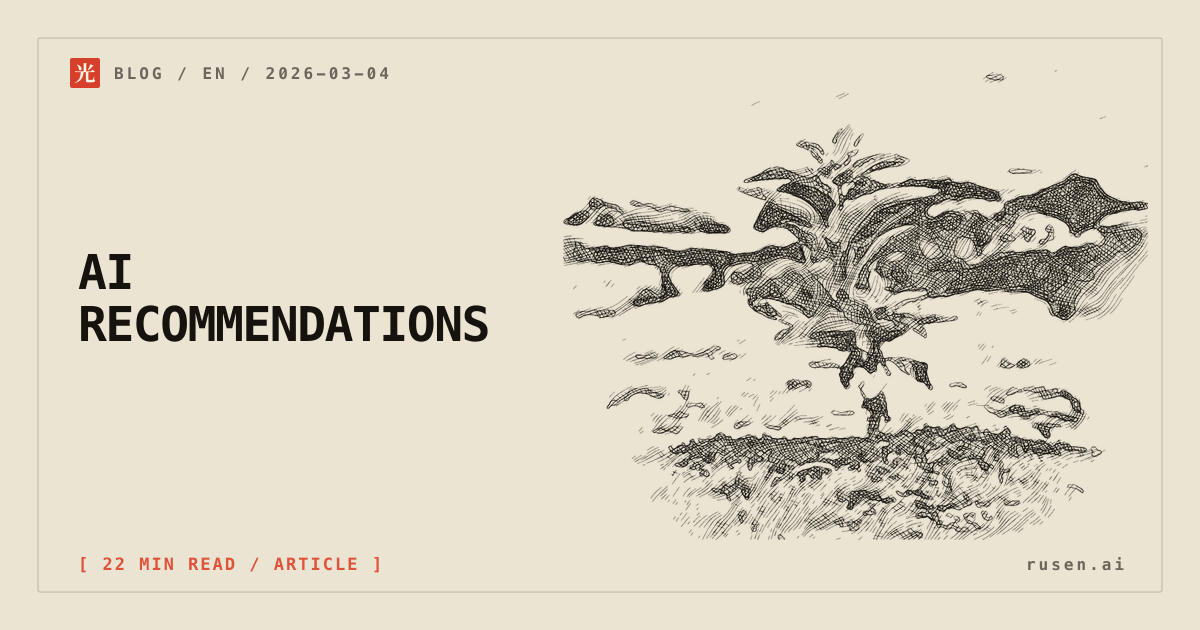
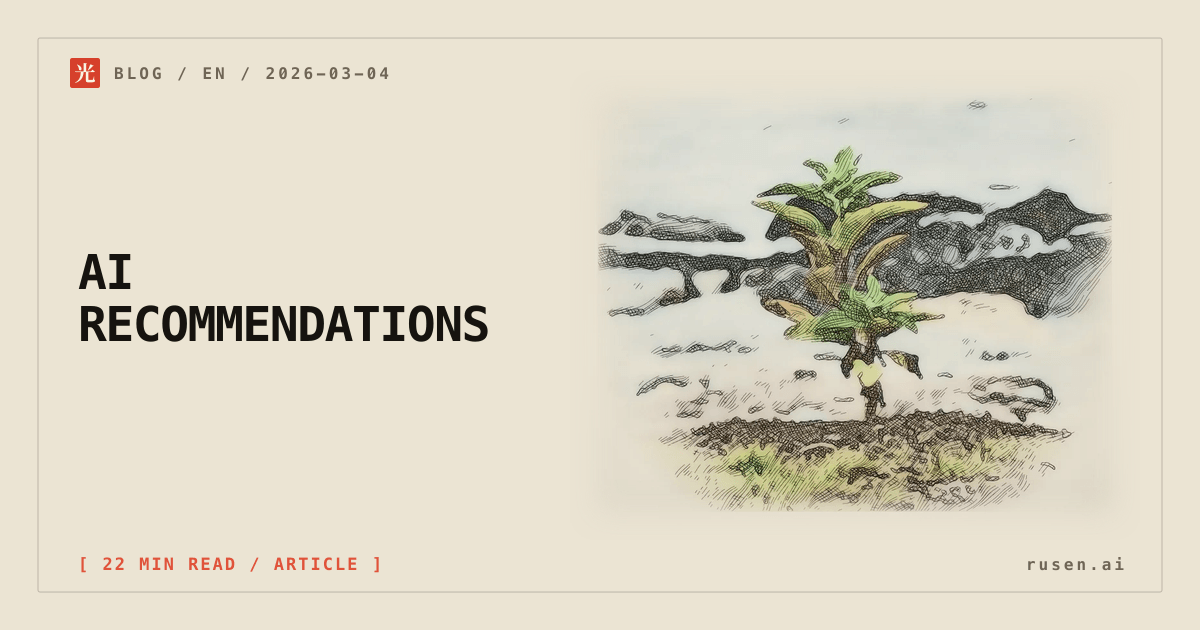
Color the blog covers with a watercolor wash
The ink covers now carry a pale wash of the photo's own colors under the
black lines, fading into the paper at the edges. The link preview card
keeps the drawing's colors and feathers its edges into the card paper.

Changed region(s): [[0.4625, 0.181, 0.9558, 0.8746], [0.74, 0.1508, 0.8325, 0.2413]]

diff --git a/scripts/social-build.ts b/scripts/social-build.ts
@@ -277,36 +277,44 @@ function renderCoverOverlaySvg(spec: CardSpec): Buffer {
   `);
 }
 
-/** The drawing's ink as an RGBA layer (paper made transparent), trimmed to the ink. */
-async function inkLayer(file: string): Promise<{ buffer: Buffer; width: number; height: number }> {
-  const { data, info } = await sharp(file).greyscale().raw().toBuffer({ resolveWithObject: true });
-  const sorted = Uint8Array.from(data).sort();
-  const paper = sorted[Math.floor(sorted.length * 0.6)];
-  const rgba = Buffer.alloc(info.width * info.height * 4);
+/** The drawing cut to its ink (plus a margin), with edges feathered into the card's paper. */
+async function drawingLayer(file: string): Promise<{ buffer: Buffer; width: number; height: number }> {
+  const { data, info } = await sharp(file).removeAlpha().raw().toBuffer({ resolveWithObject: true });
+  const n = info.width * info.height;
+  const luma = new Uint8Array(n);
+  for (let i = 0; i < n; i += 1) luma[i] = Math.round(0.299 * data[i * 3] + 0.587 * data[i * 3 + 1] + 0.114 * data[i * 3 + 2]);
+  const paper = Uint8Array.from(luma).sort()[Math.floor(n * 0.6)];
   let x0 = info.width, y0 = info.height, x1 = 0, y1 = 0;
-  for (let i = 0; i < info.width * info.height; i += 1) {
-    const alpha = Math.max(0, Math.min(255, Math.round(((paper - 12 - data[i]) * 255) / Math.max(1, paper - 60))));
-    rgba[i * 4] = 0x16; rgba[i * 4 + 1] = 0x13; rgba[i * 4 + 2] = 0x0f; rgba[i * 4 + 3] = alpha;
-    if (alpha > 60) {
+  for (let i = 0; i < n; i += 1) {
+    if (luma[i] < paper - 40) {
       const x = i % info.width, y = Math.floor(i / info.width);
       if (x < x0) x0 = x; if (x > x1) x1 = x; if (y < y0) y0 = y; if (y > y1) y1 = y;
     }
   }
-  const buffer = await sharp(rgba, { raw: { width: info.width, height: info.height, channels: 4 } })
-    .extract({ left: x0, top: y0, width: x1 - x0 + 1, height: y1 - y0 + 1 })
+  const pad = 44;
+  x0 = Math.max(0, x0 - pad); y0 = Math.max(0, y0 - pad);
+  x1 = Math.min(info.width - 1, x1 + pad); y1 = Math.min(info.height - 1, y1 + pad);
+  const width = x1 - x0 + 1, height = y1 - y0 + 1;
+  const feather = Buffer.from(
+    `<svg xmlns="http://www.w3.org/2000/svg" width="${width}" height="${height}"><defs><filter id="f"><feGaussianBlur stdDeviation="${pad / 2.2}"/></filter></defs><rect x="${pad}" y="${pad}" width="${width - 2 * pad}" height="${height - 2 * pad}" fill="#fff" filter="url(#f)"/></svg>`,
+  );
+  const buffer = await sharp(file)
+    .extract({ left: x0, top: y0, width, height })
+    .ensureAlpha()
+    .composite([{ input: feather, blend: "dest-in" }])
     .png()
     .toBuffer();
-  return { buffer, width: x1 - x0 + 1, height: y1 - y0 + 1 };
+  return { buffer, width, height };
 }
 
 async function writeCoverCard(spec: CardSpec & { cover: string }, outputPath: string): Promise<void> {
   const drawing = resolve(ROOT, "public", coverImagePath(spec.cover).replace(/^\//, ""));
-  const ink = await inkLayer(drawing);
+  const layer = await drawingLayer(drawing);
   // the drawing sits in the right part of the card, the title on clean paper at the left
   const box = { x: 560, y: 70, w: 590, h: 470 };
-  const k = Math.min(box.w / ink.width, box.h / ink.height);
-  const w = Math.round(ink.width * k), h = Math.round(ink.height * k);
-  const placed = await sharp(ink.buffer).resize(w, h).toBuffer();
+  const k = Math.min(box.w / layer.width, box.h / layer.height);
+  const w = Math.round(layer.width * k), h = Math.round(layer.height * k);
+  const placed = await sharp(layer.buffer).resize(w, h).toBuffer();
   await sharp({ create: { width: WIDTH, height: HEIGHT, channels: 3, background: PAPER } })
     .composite([
       { input: placed, left: box.x + Math.round((box.w - w) / 2), top: box.y + Math.round((box.h - h) / 2) },
